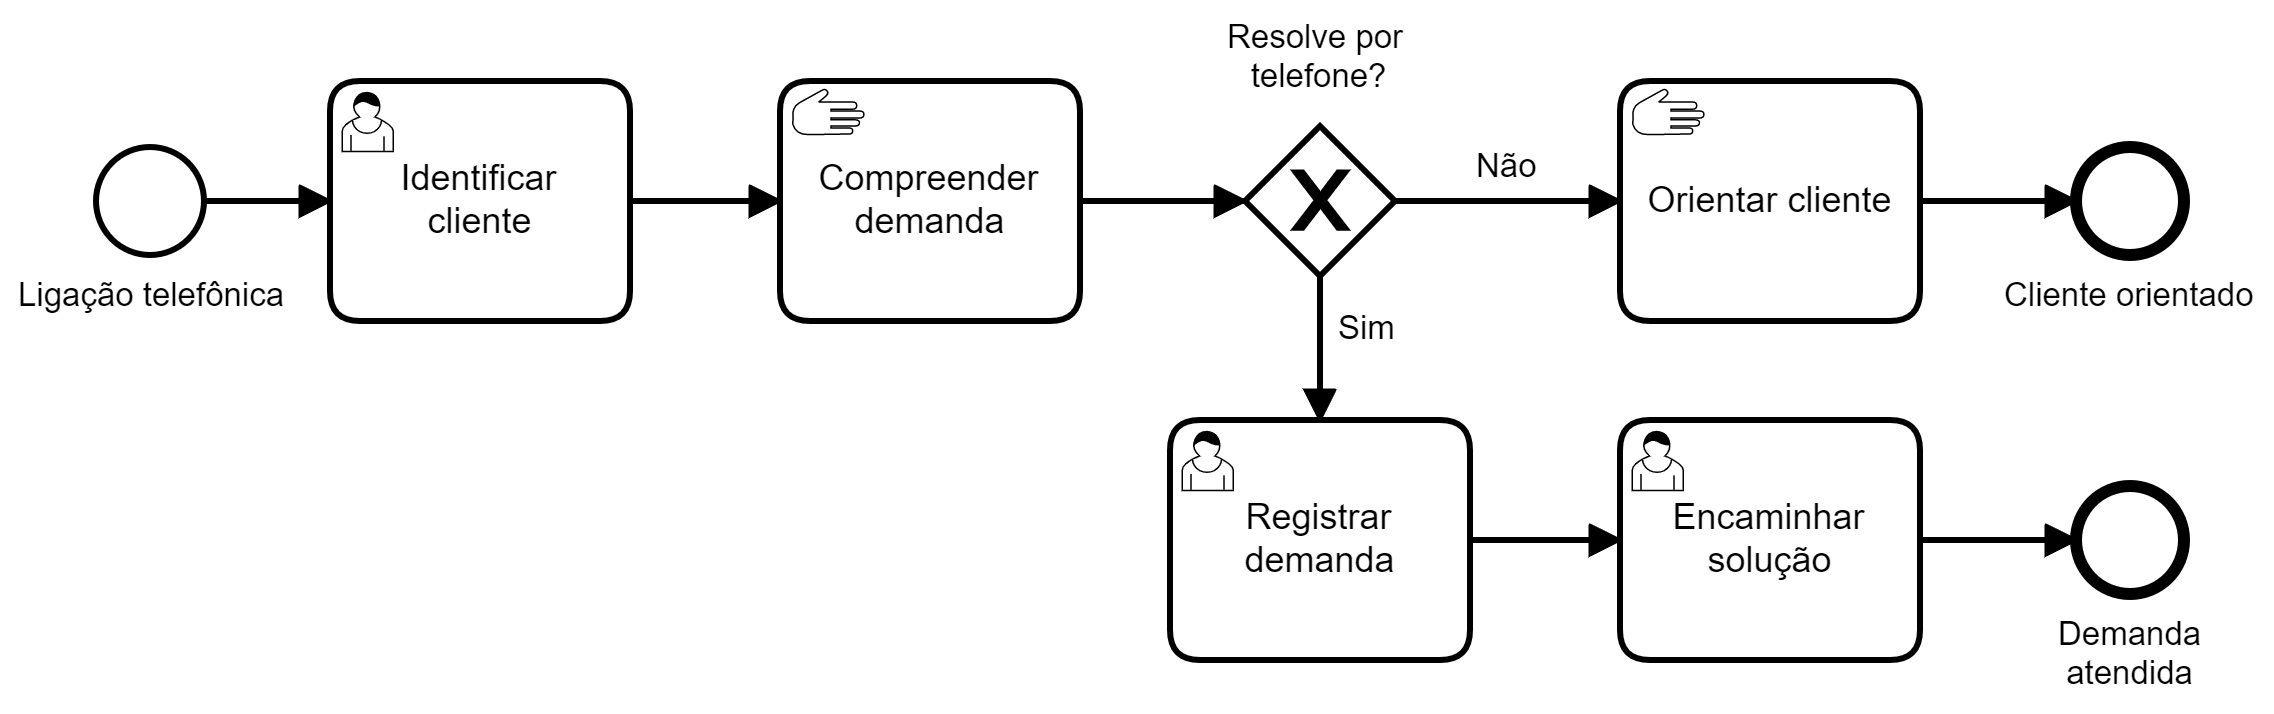
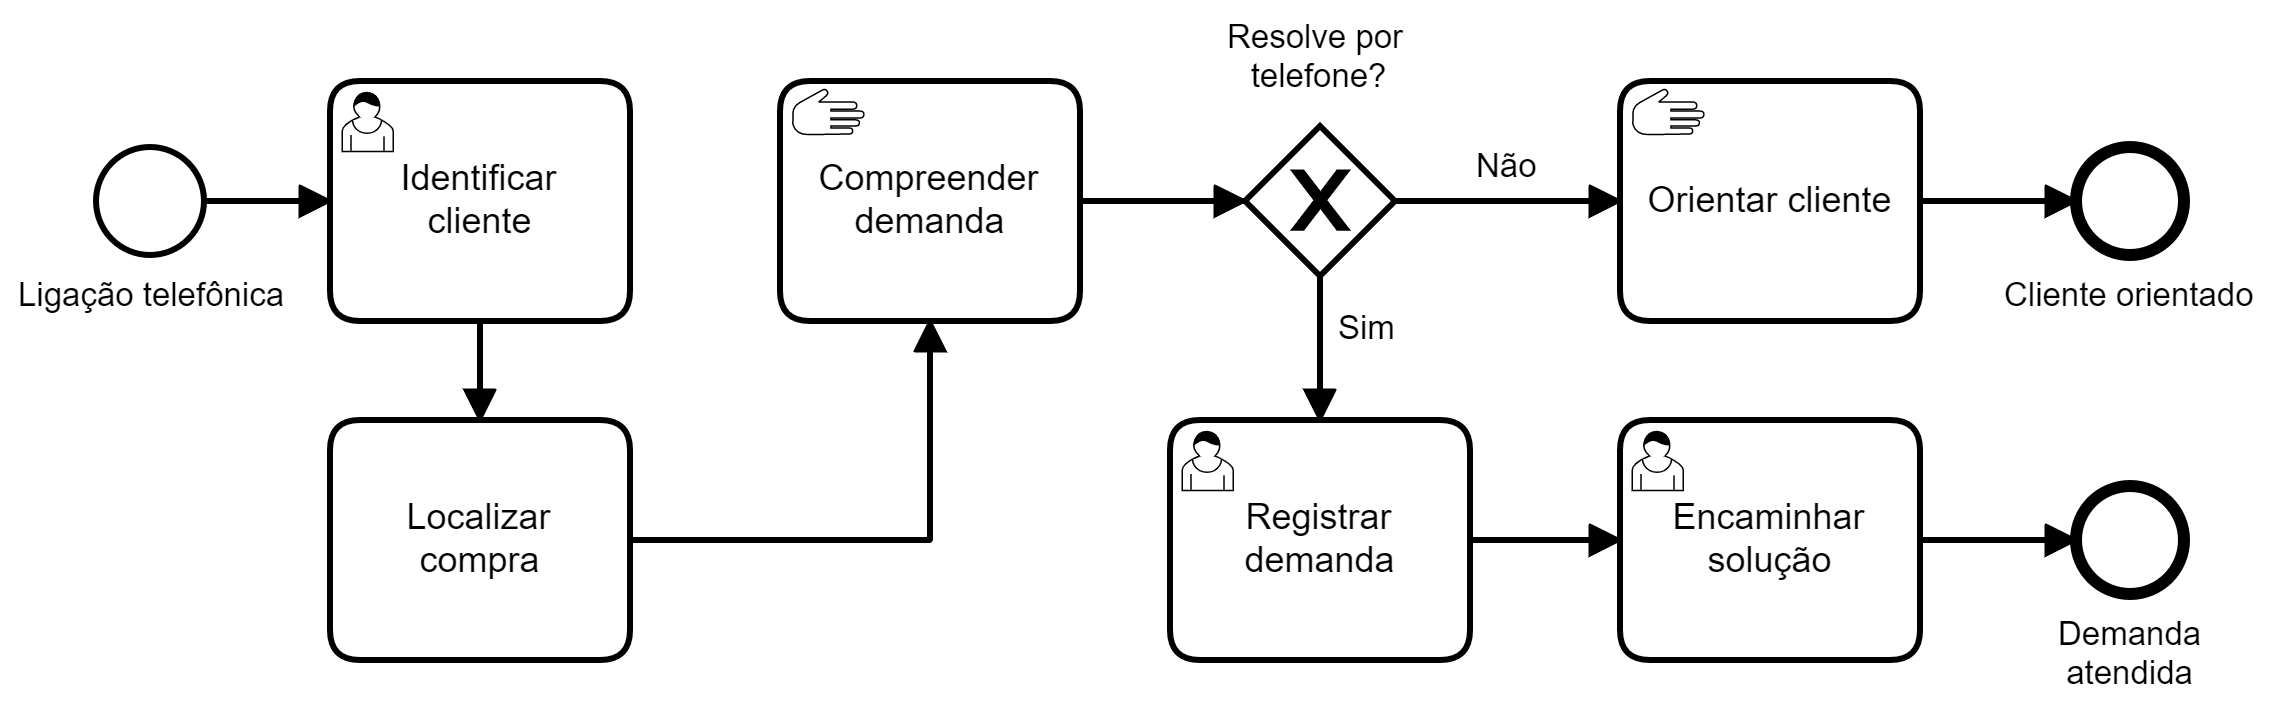
atendimento telefonico cac

diff --git a/exemplos/atendimento-telefonico/README.md b/exemplos/atendimento-telefonico/README.md
@@ -1,0 +1,16 @@
+## Cenário
+
+Contato inicial de cliente com Central de Atendimento ao Consumidor (CAC)
+de uma empresa de alcance nacional, por exemplo, com foco em uma
+compra (pós-venda).
+
+## Modelagem BPMN
+
+Operador da central atende consumidor, via telefone, e realiza a identificação do cliente e a localização da compra em questão.
+Compreende a demanda do cliente e orienta o cliente, por exemplo,
+ainda está dentro do prazo de entrega do produto ou, caso exija
+ação correspondente, registra a demanda do cliente e encaminha
+para o setor responsável. Em ambos os casos, finalizando o
+processo de contato inicial.
+
+<img src="atendimento-telefonico.png" width="600">
